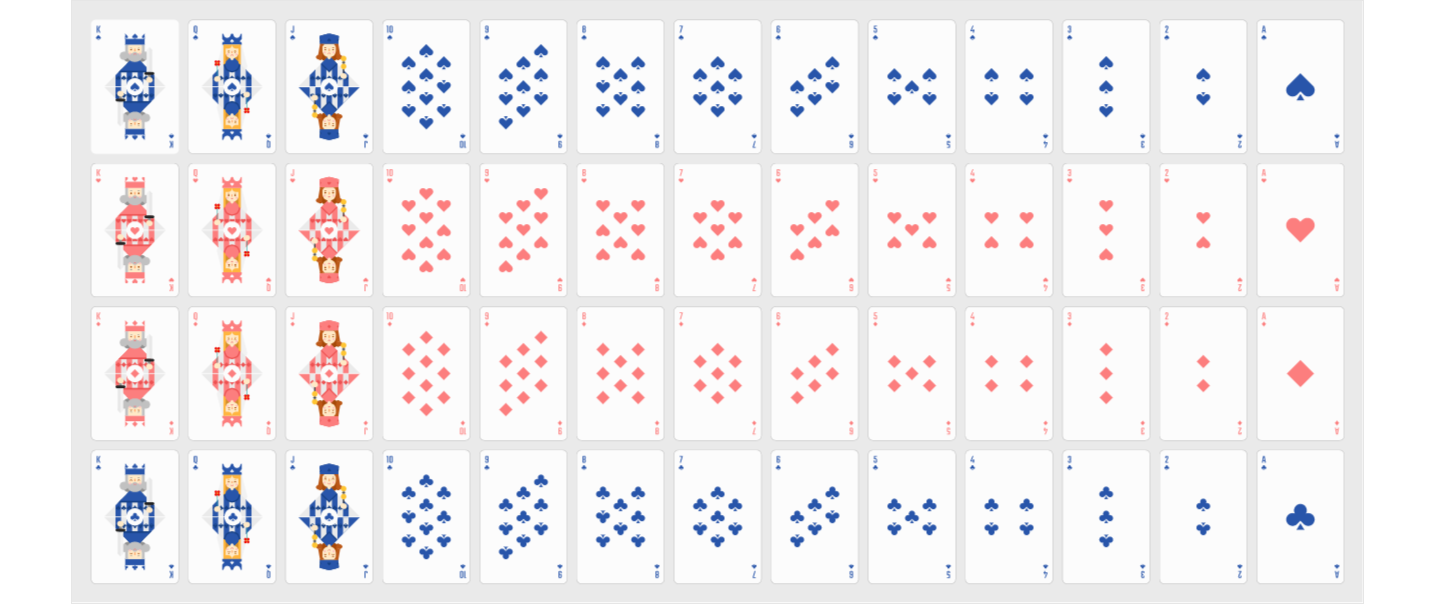
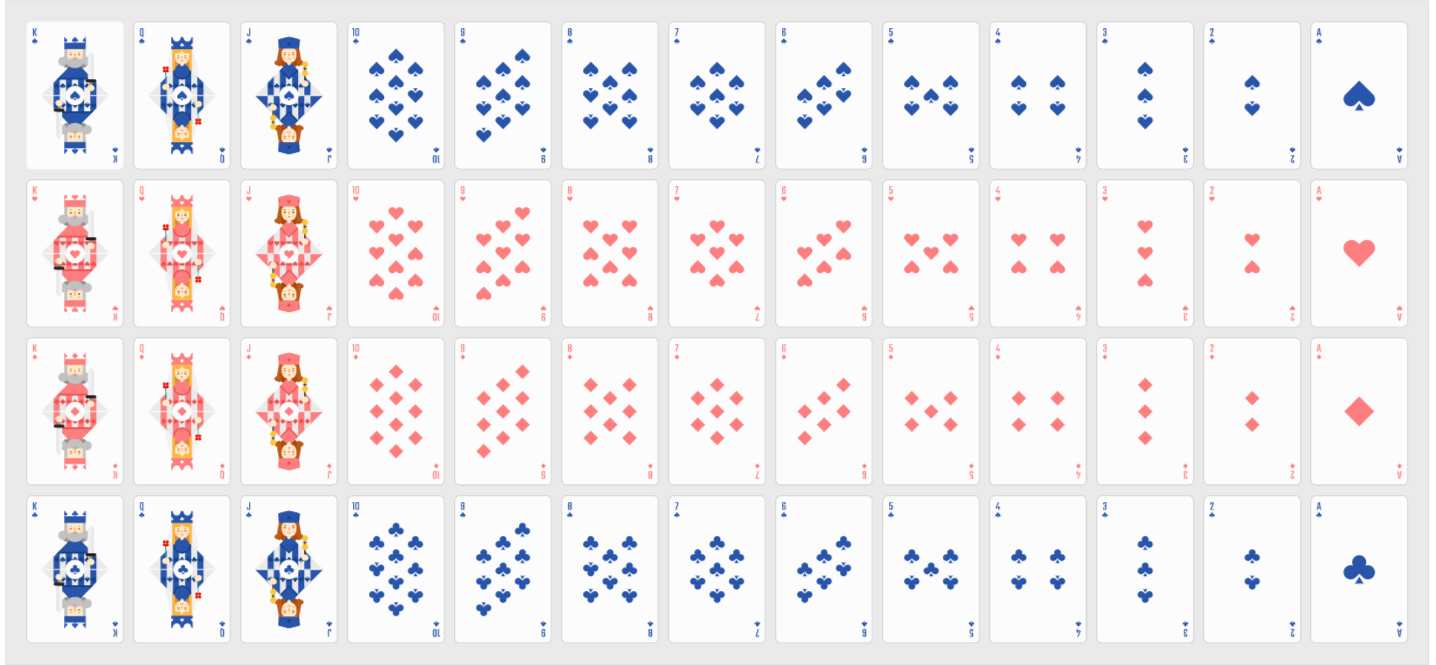
更換大一點圖片

diff --git a/vue-freecell/src/assets/styles/style.scss b/vue-freecell/src/assets/styles/style.scss
@@ -1,16 +1,16 @@
 .pocker{
-    width: 87px;
-    height: 133px;
+    height: 146px;
+    width: 96px;
     background:url(../image/freecell.png) no-repeat;
 }
 
 @mixin pockerStyle($classname) {
     @for $i from 1 through 13{
        .pocker-#{$classname}-#{$i}{
-        @if $classname=='spade'{ background-position:(-92px +-97px* (13-$i)) -20px;}
-        @else if $classname=='heart'{ background-position:(-92px +-97px* (13-$i)) -164px;}
-        @else if $classname=='diamond'{ background-position:(-92px +-97px* (13-$i)) -308px;}
-        @else if $classname=='club'{ background-position:(-92px +-97px* (13-$i)) -452px;}
+        @if $classname=='spade'{ background-position:(-28px +-107px* (13-$i)) -22px;}
+        @else if $classname=='heart'{ background-position:(-28px +-107px* (13-$i)) -180px;}
+        @else if $classname=='diamond'{ background-position:(-28px +-107px* (13-$i)) -339px;}
+        @else if $classname=='club'{ background-position:(-28px +-107px* (13-$i)) -496px;}
             border-radius: 5px;
             position: relative;
         }
